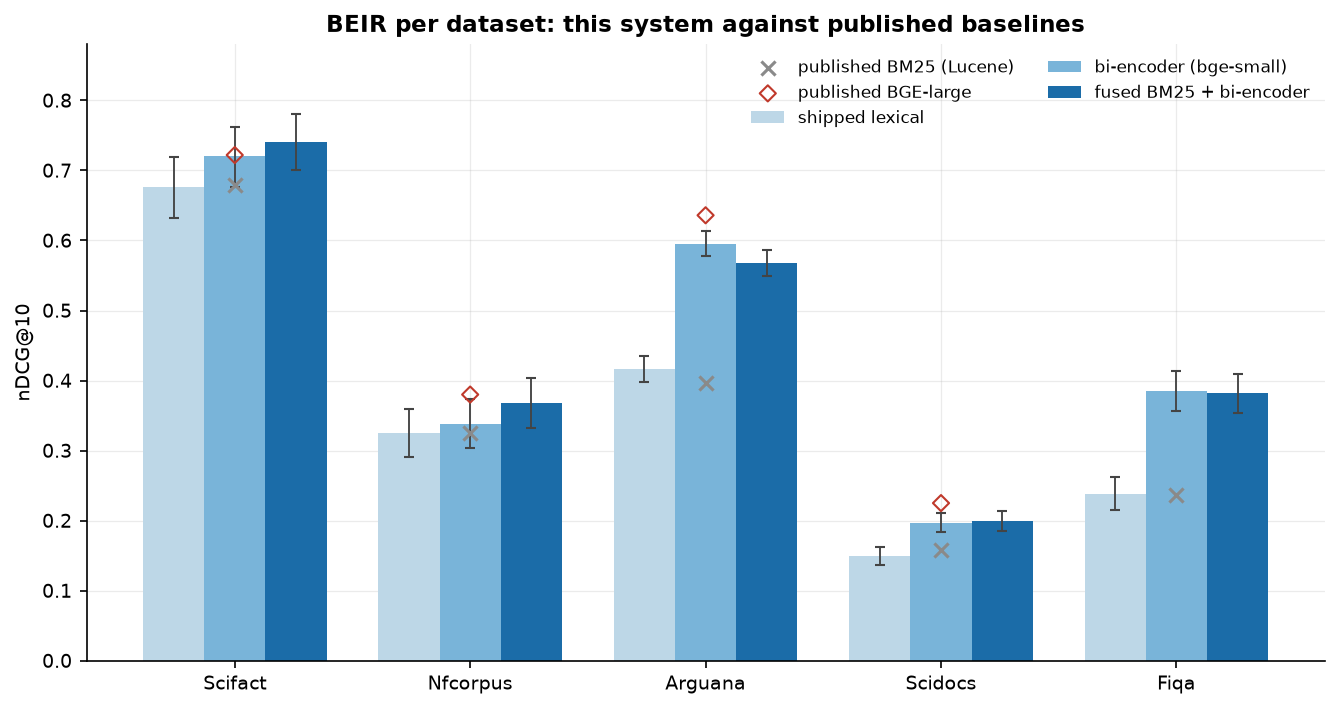
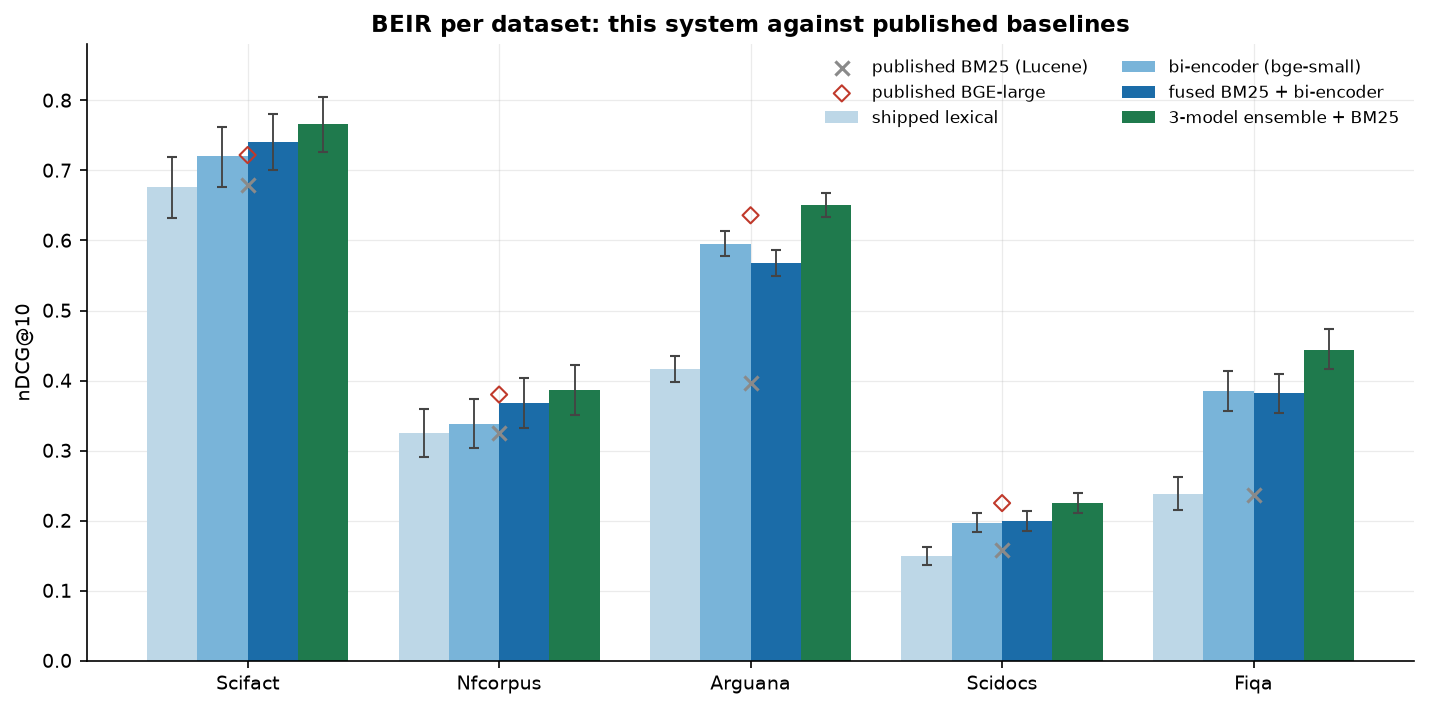
docs(charts): add the three-model ensemble to the BEIR charts
tools/compare.py routes each dataset to its ensemble report (ensemble3 for SciFact,
NFCorpus and ArguAna; ensemble2 for SciDocs and FiQA) and plots the single three-model
configuration beside the cherry-picked mean and the published systems. The four-dataset
ranking chart now shows 0.507 (478M, single config) above 0.495 (best per dataset) and
BGE-large's 0.491, and the per-dataset chart gains the ensemble series that closes the
SciDocs gap. Regenerated with `make charts`.

diff --git a/tools/compare.py b/tools/compare.py
@@ -89,6 +89,31 @@ def per_query(name: str, dataset: str, retriever: str) -> list[float]:
     return list(report["per_query_nDCG@10"][retriever].values())
 
 
+#: The three-model dense ensemble was measured in two runs; route each dataset to its report.
+ENSEMBLE_REPORT = {
+    "scifact": "ensemble3", "nfcorpus": "ensemble3", "arguana": "ensemble3",
+    "scidocs": "ensemble2", "fiqa": "ensemble2",
+}
+
+
+def per_query_ensemble(dataset: str, retriever: str = "hybrid-ensemble") -> list[float]:
+    """Per-query nDCG@10 for the single three-model ensemble configuration."""
+    return per_query(ENSEMBLE_REPORT[dataset], dataset, retriever)
+
+
+def macro_with_ci(pools: dict[str, list[float]], samples: int = 4000, seed: int = 7):
+    """Mean of per-dataset means, bootstrapping queries within each dataset."""
+    rng = np.random.default_rng(seed)
+    arrays = {d: np.asarray(v, dtype=np.float64) for d, v in pools.items()}
+    point = float(np.mean([a.mean() for a in arrays.values()]))
+    draws = [
+        np.mean([a[rng.integers(0, len(a), size=len(a))].mean() for a in arrays.values()])
+        for _ in range(samples)
+    ]
+    lo, hi = np.percentile(draws, [2.5, 97.5])
+    return point, float(lo), float(hi)
+
+
 def bar(value: float, scale: float, width: int = 40) -> str:
     full = int(round(width * value / scale))
     return "█" * full + "·" * (width - full)
@@ -107,6 +132,7 @@ def ranking_chart(rows, label: str, label_width: int = 34, scale: float = 0.52) 
 OURS = "#1b6ca8"
 OURS_ALT = "#79b4d9"
 OURS_LIGHT = "#bdd7e7"
+ENSEMBLE = "#1f7a4d"
 PUBLISHED = "#c9c9c9"
 PUBLISHED_DARK = "#8a8a8a"
 ACCENT = "#c0392b"
@@ -149,10 +175,11 @@ def _save(fig, outdir: Path, name: str, plt) -> None:
     print(f"  wrote {path.relative_to(ROOT)}  ({path.stat().st_size // 1024} KB)")
 
 
-def chart_beir_ranking(outdir: Path, best: float, ci, deploy: float, plt) -> None:
-    systems = [("this system - best per dataset", best, OURS, ci)]
+def chart_beir_ranking(outdir: Path, best: float, ci, deploy: float, ensemble, ensemble_ci, plt) -> None:
+    systems = [("this system - 3-model ensemble + BM25", ensemble, OURS, ensemble_ci),
+               ("this system - best per dataset", best, OURS, ci)]
     systems += [(f"{name} ({params})", value, PUBLISHED, None) for name, params, value in PUBLISHED_4]
-    systems.append(("this system - one deployable config", deploy, OURS_ALT, None))
+    systems.append(("this system - one encoder + BM25", deploy, OURS_ALT, None))
     systems.sort(key=lambda row: -row[1])
 
     labels = [s[0] for s in systems]
@@ -179,20 +206,22 @@ def chart_beir_ranking(outdir: Path, best: float, ci, deploy: float, plt) -> Non
 
 
 def chart_beir_datasets(outdir: Path, plt) -> None:
-    series = [("shipped lexical", "bm25-engine", OURS_LIGHT),
-              ("bi-encoder (bge-small)", "biencoder", OURS_ALT),
-              ("fused BM25 + bi-encoder", "hybrid-biencoder", OURS)]
+    series = [("shipped lexical", "bm25-engine", OURS_LIGHT, False),
+              ("bi-encoder (bge-small)", "biencoder", OURS_ALT, False),
+              ("fused BM25 + bi-encoder", "hybrid-biencoder", OURS, False),
+              ("3-model ensemble + BM25", "hybrid-ensemble", ENSEMBLE, True)]
     x = np.arange(len(DATASET_ORDER))
-    width = 0.26
-    fig, ax = plt.subplots(figsize=(9, 4.8))
-    for i, (label, key, color) in enumerate(series):
+    width = 0.2
+    fig, ax = plt.subplots(figsize=(9.6, 4.8))
+    for i, (label, key, color, is_ensemble) in enumerate(series):
         vals, lo, hi = [], [], []
         for ds in DATASET_ORDER:
-            m, low, high = bootstrap_ci(per_query("five-small-fixed", ds, key))
+            values = per_query_ensemble(ds) if is_ensemble else per_query("five-small-fixed", ds, key)
+            m, low, high = bootstrap_ci(values)
             vals.append(m)
             lo.append(m - low)
             hi.append(high - m)
-        ax.bar(x + (i - 1) * width, vals, width, color=color, label=label,
+        ax.bar(x + (i - 1.5) * width, vals, width, color=color, label=label,
                yerr=np.vstack([lo, hi]), capsize=2.5, error_kw=dict(lw=0.9, ecolor="#444"))
 
     ax.scatter(x, [PUBLISHED_BM25[d] for d in DATASET_ORDER], marker="x", s=46,
@@ -296,9 +325,9 @@ def chart_overlap(outdir: Path, official: dict, plt) -> None:
     _save(fig, outdir, "chunk_overlap.png", plt)
 
 
-def make_charts(outdir: Path, best: float, ci, deploy: float, official: dict) -> None:
+def make_charts(outdir: Path, best: float, ci, deploy: float, ensemble, ensemble_ci, official: dict) -> None:
     plt = _plt_mod()
-    chart_beir_ranking(outdir, best, ci, deploy, plt)
+    chart_beir_ranking(outdir, best, ci, deploy, ensemble, ensemble_ci, plt)
     chart_beir_datasets(outdir, plt)
     chart_multihop(outdir, official, plt)
     chart_abstention(outdir, plt)
@@ -338,24 +367,18 @@ def main(argv=None) -> int:
     print("4-dataset means (SciFact, NFCorpus, ArguAna, SciDocs)")
     print("-" * 78)
     deploy = [np.mean([np.mean(per_query("five-small-fixed", d, "hybrid-biencoder")) for d in FOUR])]
-    best = [np.mean([np.mean(per_query(n, d, r)) for d, (n, r, _) in BEST_PER_DATASET.items() if d in FOUR])]
-    # Interval on a mean-of-datasets: resample queries within each dataset, then average.
-    rng = np.random.default_rng(7)
-    draws = []
-    pools = {
-        d: np.asarray(
-            per_query(BEST_PER_DATASET[d][0], d, BEST_PER_DATASET[d][1]), dtype=np.float64
-        )
-        for d in FOUR
-    }
-    for _ in range(4000):
-        draws.append(np.mean([p[rng.integers(0, len(p), size=len(p))].mean() for p in pools.values()]))
-    best_lo, best_hi = np.percentile(draws, [2.5, 97.5])
+    best_pools = {d: per_query(BEST_PER_DATASET[d][0], d, BEST_PER_DATASET[d][1]) for d in FOUR}
+    ensemble_pools = {d: per_query_ensemble(d) for d in FOUR}
+    best = [np.mean([np.mean(v) for v in best_pools.values()])]
+    _, best_lo, best_hi = macro_with_ci(best_pools)
+    ens_mean, ens_lo, ens_hi = macro_with_ci(ensemble_pools)
+    print(f"  this system — 3-model ensemble   {ens_mean:.3f}  [{ens_lo:.3f},{ens_hi:.3f}]")
     print(f"  this system — best per dataset   {best[0]:.3f}  [{best_lo:.3f},{best_hi:.3f}]")
     print(f"  this system — one deployable cfg {deploy[0]:.3f}")
     print(f"  BGE-large-v1.5 (published)       0.491")
 
-    rows = [("this system — best per dataset", "mixed", best[0]),
+    rows = [("this system — 3-model ensemble", "478M", ens_mean),
+            ("this system — best per dataset", "mixed", best[0]),
             ("BGE-large-v1.5", "335M", 0.491),
             ("this system — deployable config", "33M", deploy[0]),
             ("SPLADE++", "110M", 0.433)] + PUBLISHED_4[2:]
@@ -404,7 +427,7 @@ def main(argv=None) -> int:
         print()
         print("charts")
         print("-" * 78)
-        make_charts(outdir, best[0], (best_lo, best_hi), deploy[0], official)
+        make_charts(outdir, best[0], (best_lo, best_hi), deploy[0], ens_mean, (ens_lo, ens_hi), official)
     return 0
 
 
